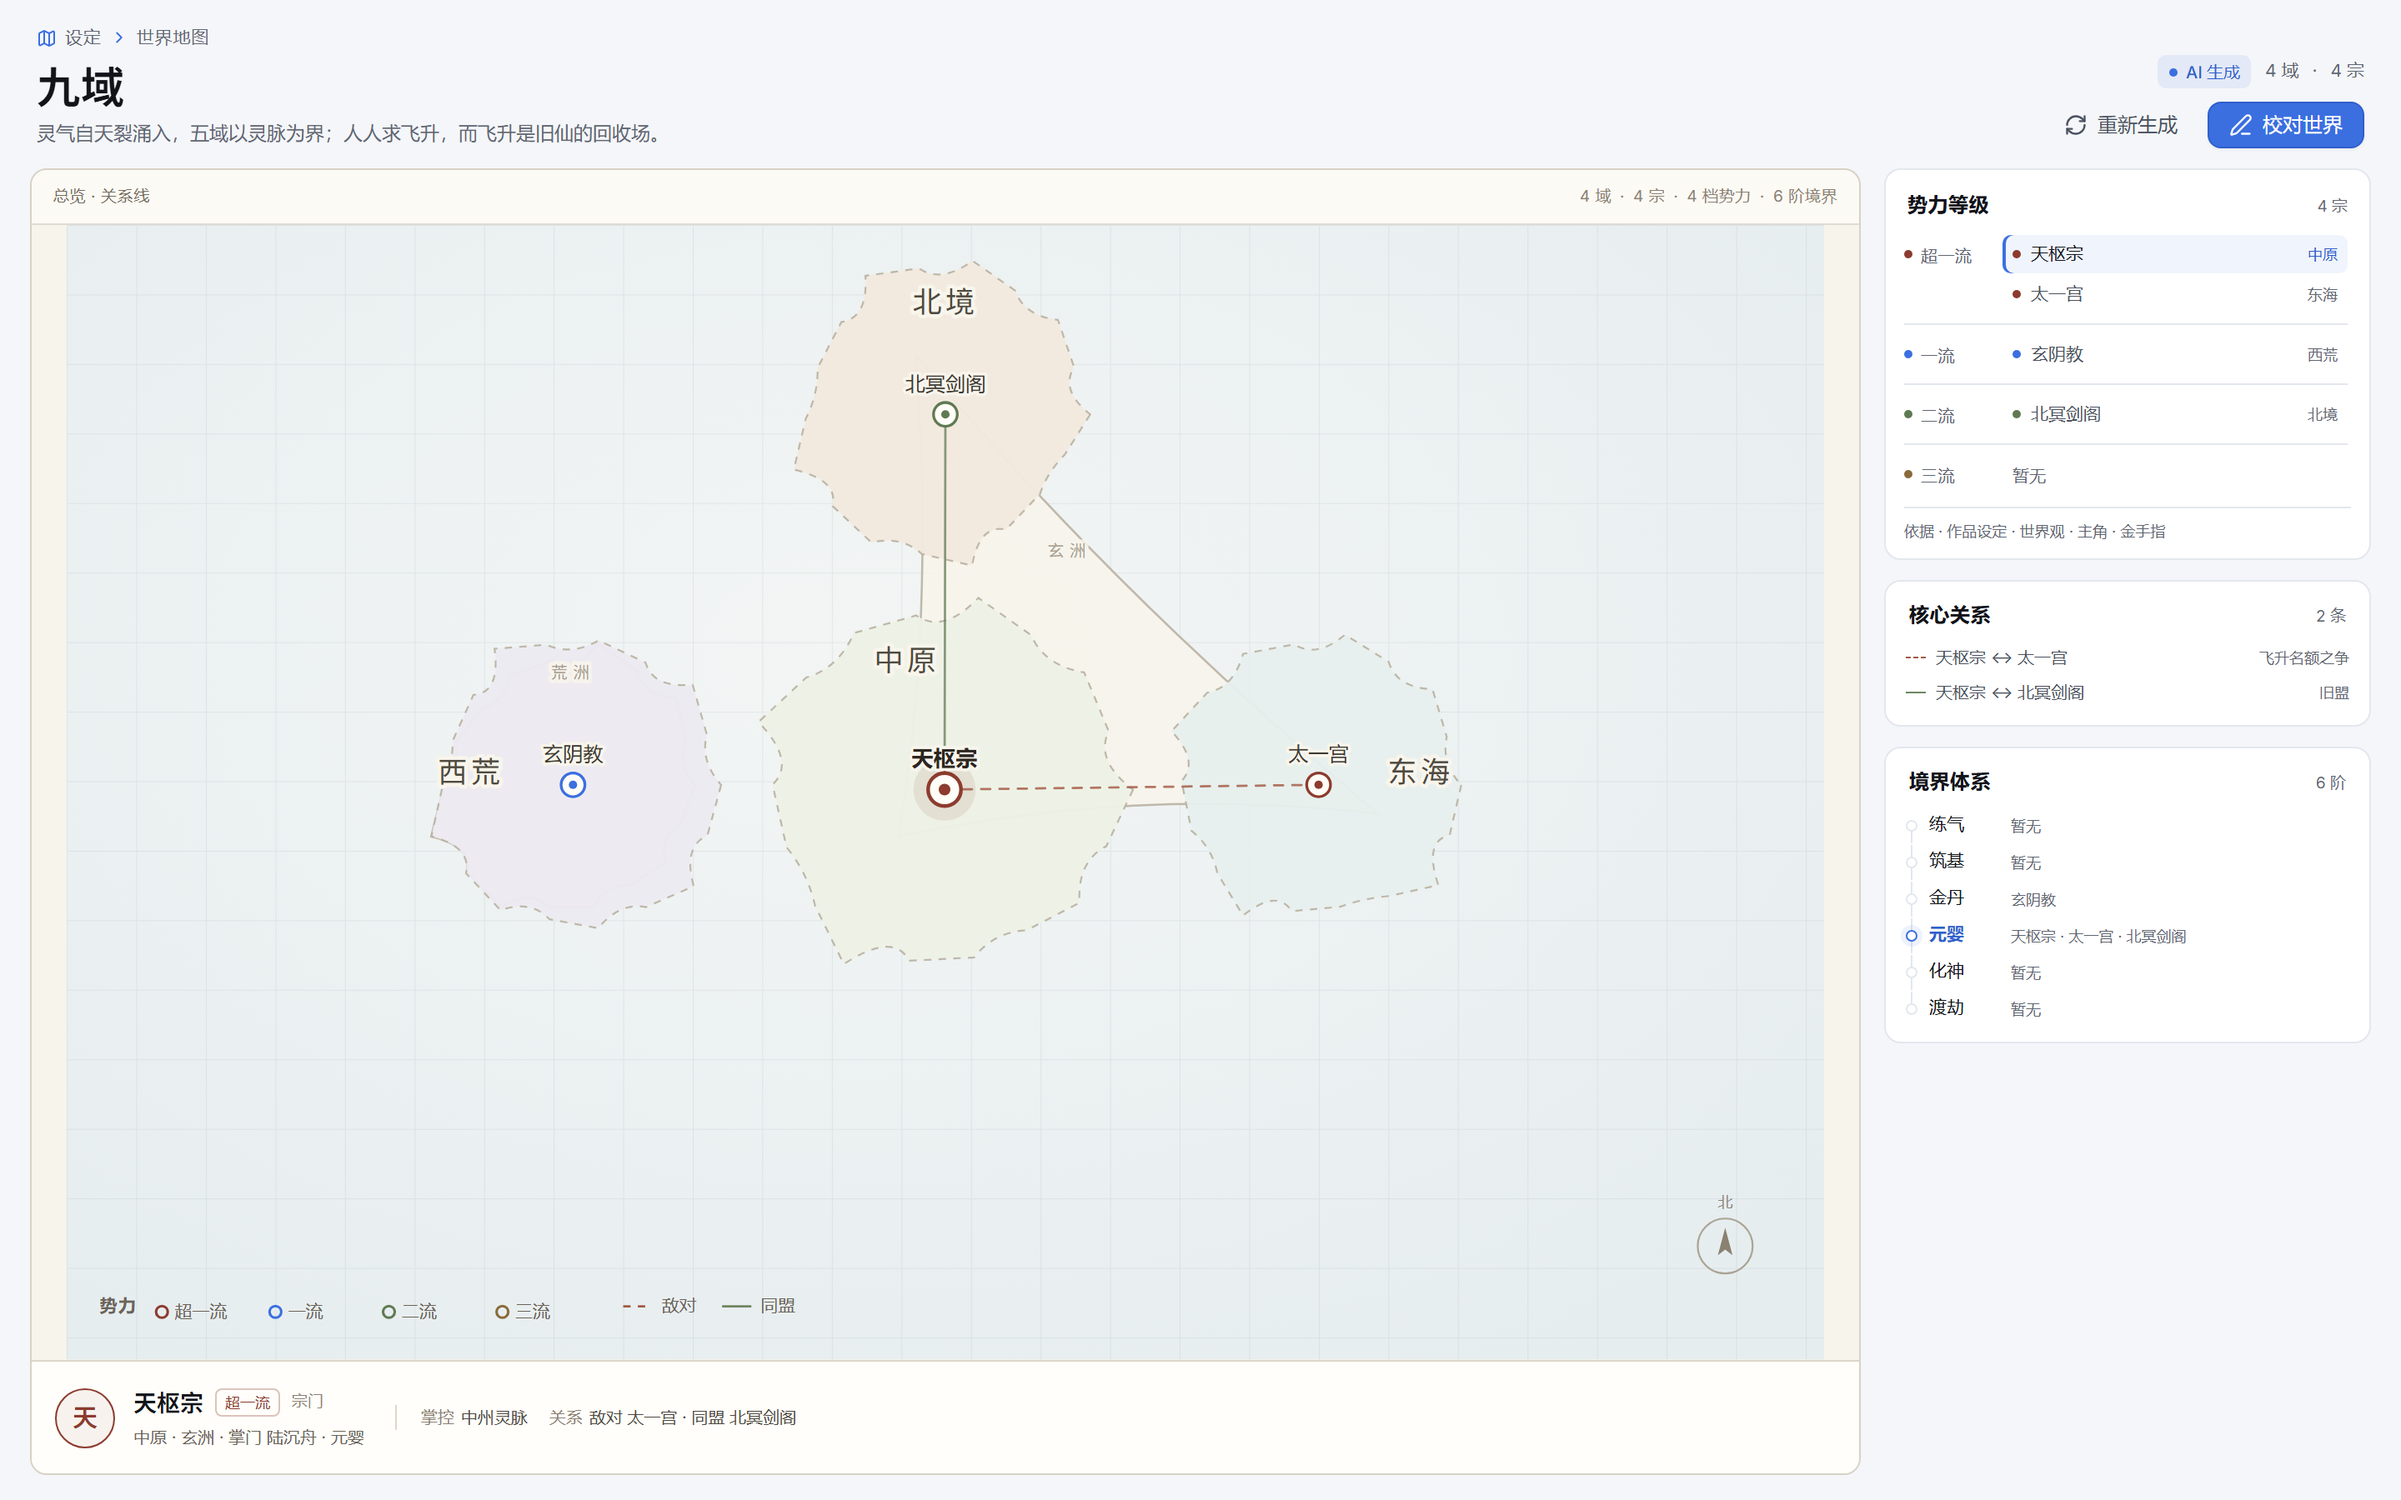
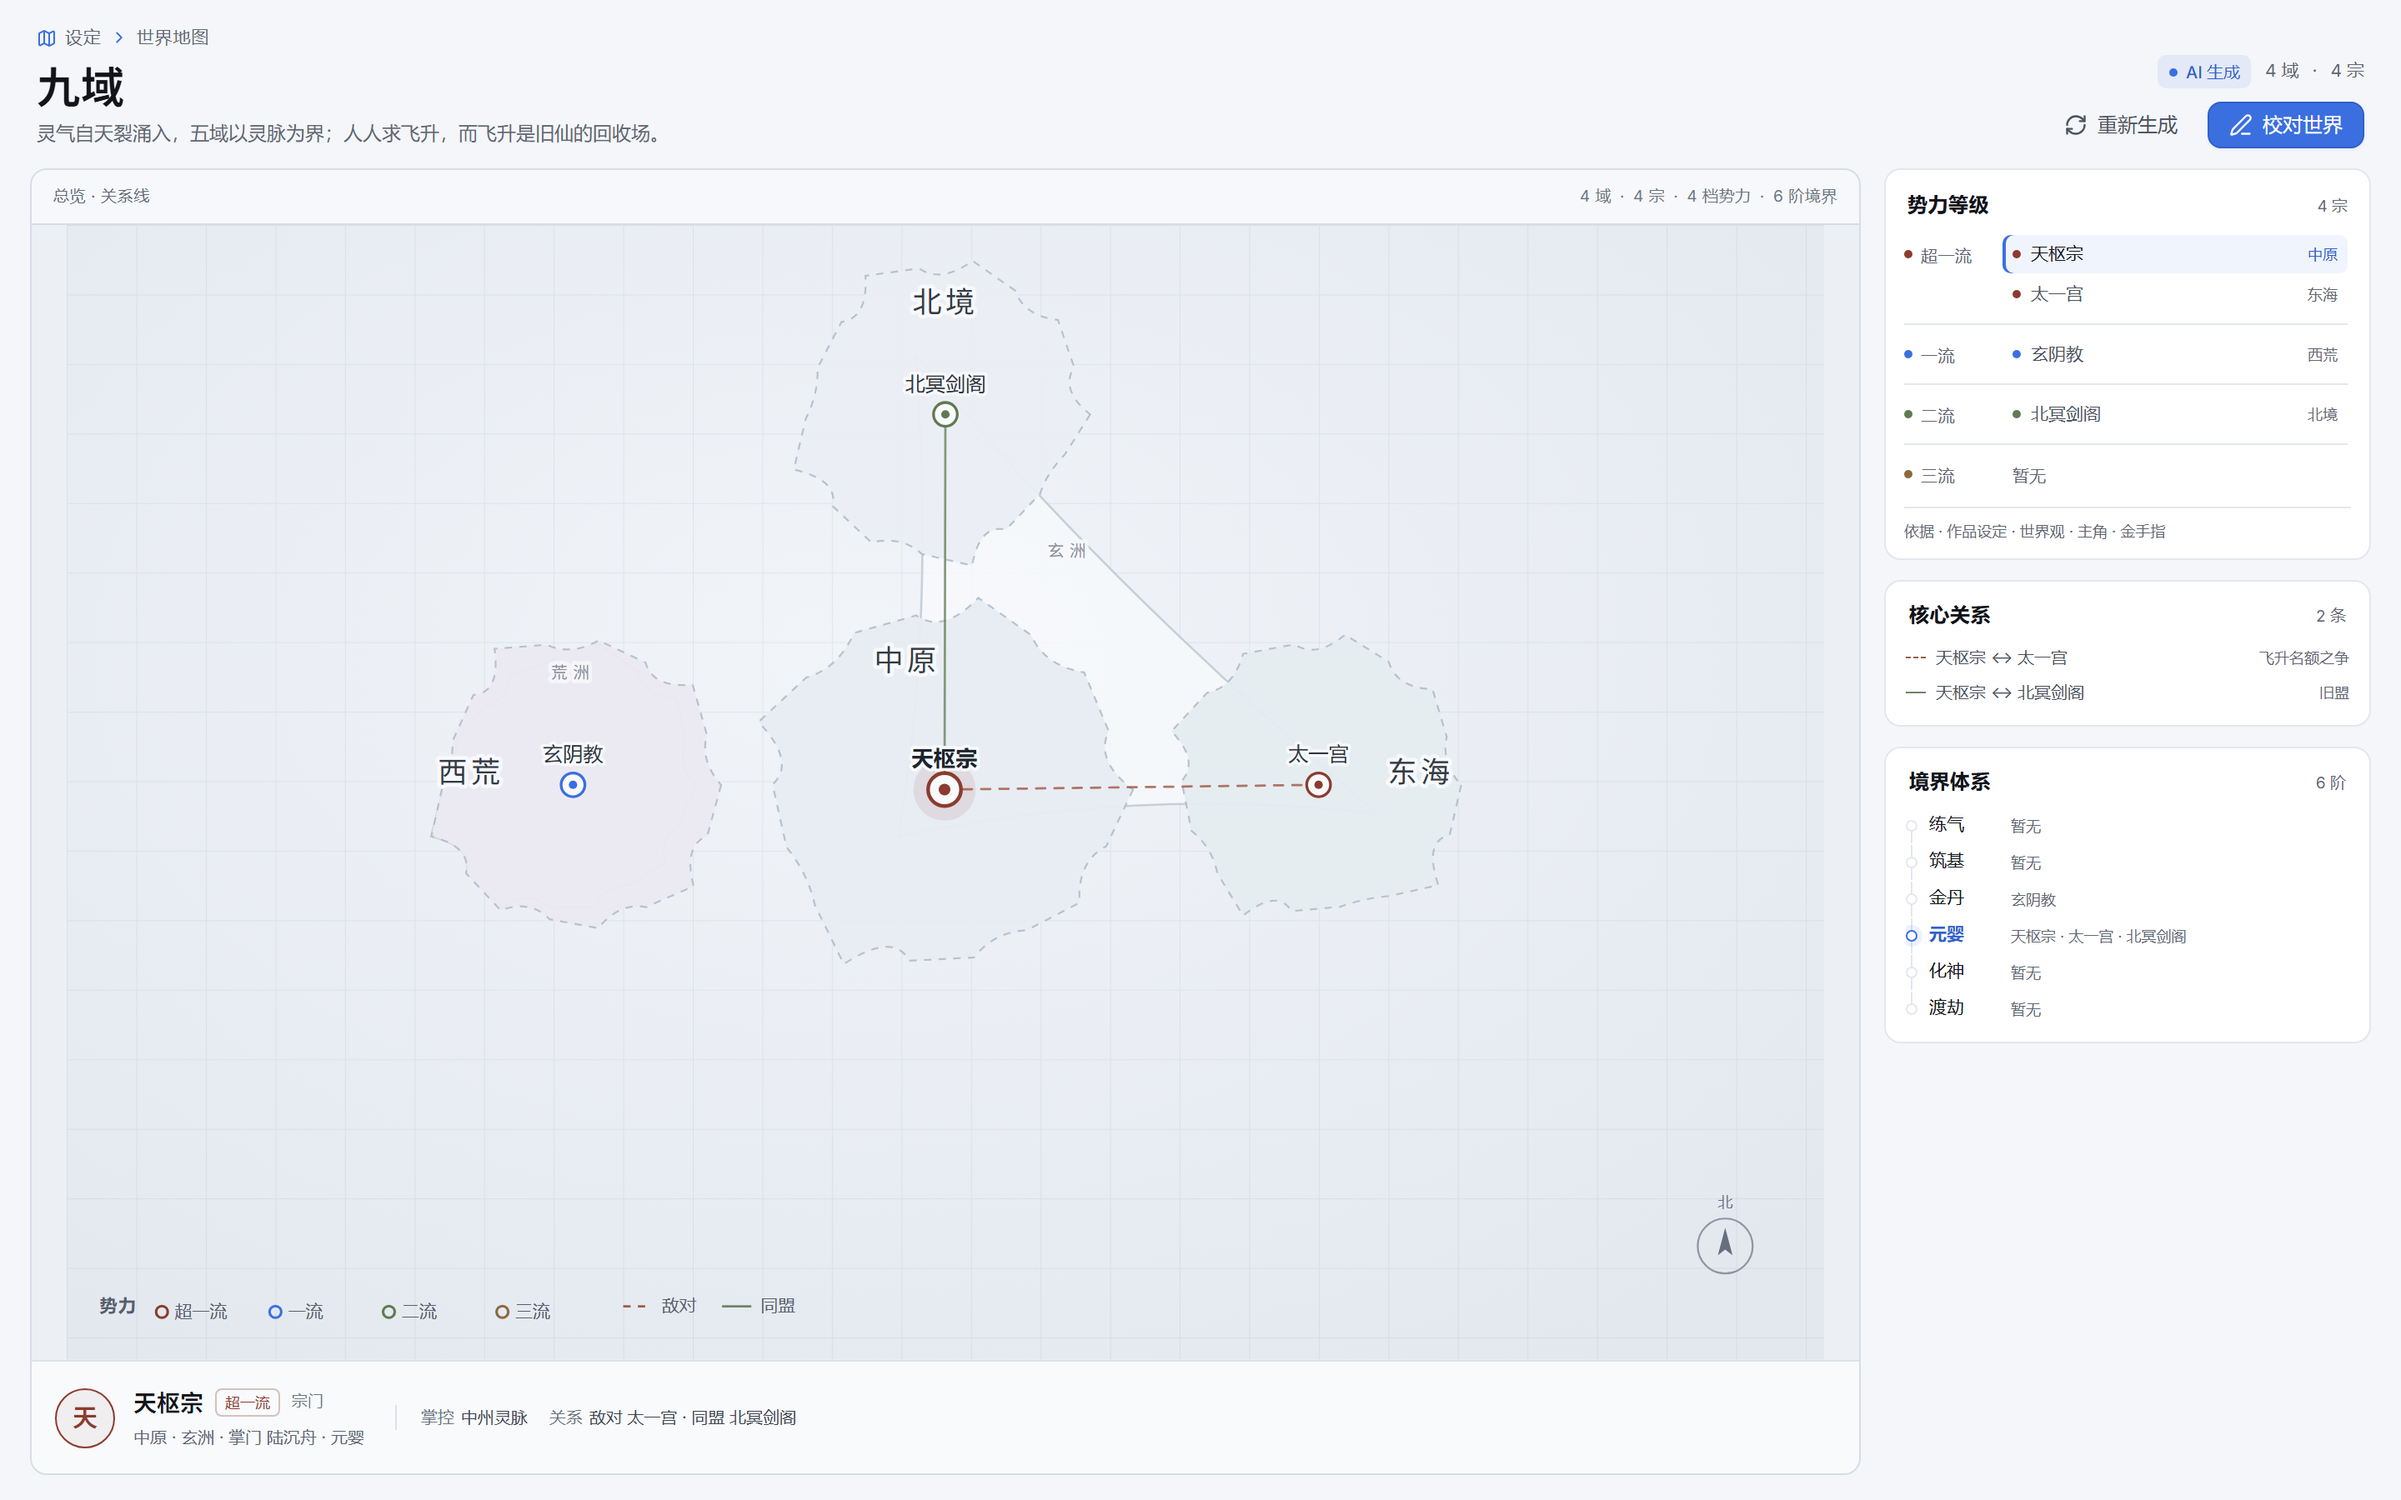
style(world-map): use a neutral gray atlas background
Replace the paper-cream map sheet with a cool gray palette. Keep the tinted region fills and semantic tier/relation colors, but remove the warm sea, parchment plate, labels, and empty-state background.

diff --git a/src/index.css b/src/index.css
@@ -3122,8 +3122,8 @@
     display: flex;
     flex-direction: column;
     overflow: hidden;
-    background: #F7F4EC;
-    border: 1px solid #D8D2C5;
+    background: #ECEFF4;
+    border: 1px solid #D7DDE6;
     border-radius: 10px;
   }
 
@@ -3134,11 +3134,11 @@
     align-items: center;
     gap: 8px;
     padding: 0 13px;
-    color: #746C5C;
+    color: #626B78;
     font-size: 9.5px;
     letter-spacing: 0.03em;
-    border-bottom: 1px solid rgba(185, 177, 161, 0.42);
-    background: rgba(255, 253, 247, 0.66);
+    border-bottom: 1px solid rgba(190, 198, 210, 0.55);
+    background: rgba(249, 250, 252, 0.8);
   }
 
   .world-map-plate-meta {
@@ -3146,7 +3146,7 @@
     display: flex;
     align-items: center;
     gap: 5px;
-    color: #8B8171;
+    color: #6C7583;
     font-variant-numeric: tabular-nums;
   }
 
@@ -3174,24 +3174,24 @@
   }
 
   .world-map-continent-label {
-    fill: #9B917D;
+    fill: #77808D;
     font-family: var(--font-writing);
     font-size: 9px;
     letter-spacing: 3px;
     paint-order: stroke;
-    stroke: #F8F5EC;
+    stroke: #F7F9FC;
     stroke-width: 4px;
     stroke-linejoin: round;
     opacity: 0.86;
   }
 
   .world-map-region-label {
-    fill: #4F4A40;
+    fill: #343B46;
     font-family: var(--font-writing);
     font-size: 16px;
     letter-spacing: 2px;
     paint-order: stroke;
-    stroke: #F8F5EC;
+    stroke: #F7F9FC;
     stroke-width: 4px;
     stroke-linejoin: round;
     pointer-events: none;
@@ -3201,32 +3201,32 @@
   .world-map-faction:focus-visible circle { stroke-width: 2.5; }
 
   .world-map-faction-label {
-    fill: #3F3B32;
+    fill: #2F3742;
     font-family: var(--font-sans);
     font-size: 11px;
     font-weight: 500;
     paint-order: stroke;
-    stroke: #F8F5EC;
+    stroke: #F7F9FC;
     stroke-width: 3px;
     stroke-linejoin: round;
     pointer-events: none;
   }
 
   .world-map-faction-label.selected {
-    fill: #2B2620;
+    fill: #1D242D;
     font-size: 12px;
     font-weight: 600;
   }
 
   .world-map-compass-label {
-    fill: #8B8171;
+    fill: #66707D;
     font-size: 8px;
     text-anchor: middle;
   }
 
   .world-map-legend-label,
   .world-map-legend-value {
-    fill: #6B6458;
+    fill: #56606D;
     font-family: var(--font-sans);
     font-size: 9.5px;
   }
@@ -3240,14 +3240,14 @@
     align-items: center;
     gap: 11px;
     padding: 8px 14px;
-    border-top: 1px solid #DCD6C9;
-    background: rgba(255, 254, 250, 0.96);
+    border-top: 1px solid #DCE2EA;
+    background: rgba(248, 250, 252, 0.96);
   }
 
   .world-map-detail-empty {
     justify-content: center;
     min-height: 54px;
-    color: #8B8171;
+    color: #6C7583;
     font-size: 10.5px;
   }
 
@@ -3294,14 +3294,14 @@
     font-weight: 500;
   }
 
-  .world-map-kind { flex: none; color: #8B8171; font-size: 9.5px; }
+  .world-map-kind { flex: none; color: #6C7583; font-size: 9.5px; }
 
   .world-map-detail-main p {
     margin: 3px 0 0;
     overflow: hidden;
     text-overflow: ellipsis;
     white-space: nowrap;
-    color: #6B6458;
+    color: #5D6674;
     font-size: 10px;
   }
 
@@ -3313,15 +3313,15 @@
     min-width: 0;
     margin-left: 8px;
     padding-left: 14px;
-    border-left: 1px solid #DED8CB;
-    color: #4E4A42;
+    border-left: 1px solid #DDE2E9;
+    color: #3E4652;
     font-size: 10px;
     line-height: 1.55;
   }
 
   .world-map-detail-facts b {
     margin-right: 4px;
-    color: #8B8171;
+    color: #6C7583;
     font-weight: 400;
   }
 
@@ -3556,11 +3556,11 @@
     margin: 0 18px 15px;
     padding: 28px 32px;
     overflow: hidden;
-    border: 1px solid #D8D2C5;
+    border: 1px solid #D7DDE6;
     border-radius: 10px;
     background:
-      radial-gradient(120% 90% at 32% 24%, rgba(255, 253, 246, 0.94), transparent 62%),
-      linear-gradient(180deg, #F7F4EC 0%, #F2EEE4 100%);
+      radial-gradient(120% 90% at 32% 24%, rgba(250, 251, 253, 0.96), transparent 62%),
+      linear-gradient(180deg, #EDF0F5 0%, #E5EAF1 100%);
   }
 
   .world-map-empty-wrap::before {
@@ -3588,9 +3588,9 @@
   }
 
   .world-map-empty-art svg { width: 100%; height: auto; display: block; }
-  .world-map-empty-art path { fill: #F3EFE3; stroke: #C7BEAC; stroke-width: 1.2; }
+  .world-map-empty-art path { fill: #E9EDF3; stroke: #C1C9D4; stroke-width: 1.2; }
   .world-map-empty-art path.dash { fill: none; stroke: #A45A45; stroke-width: 1; stroke-dasharray: 4 4; opacity: 0.55; }
-  .world-map-empty-art circle { fill: #FBFAF5; stroke: #8C3B2E; stroke-width: 2; }
+  .world-map-empty-art circle { fill: #F9FAFC; stroke: #8C3B2E; stroke-width: 2; }
 
   .world-map-empty-copy h2 {
     margin: 0;

diff --git a/src/components/editor/world-map/WorldMapCanvas.tsx b/src/components/editor/world-map/WorldMapCanvas.tsx
@@ -44,8 +44,8 @@ export default function WorldMapCanvas({
           <path d="M38 0H0V38" fill="none" stroke="rgba(96, 110, 126, 0.10)" strokeWidth="1" />
         </pattern>
         <radialGradient id="world-map-sea" cx="45%" cy="38%" r="75%">
-          <stop offset="0%" stopColor="#F2F5F4" />
-          <stop offset="100%" stopColor="#E6EDEF" />
+          <stop offset="0%" stopColor="#F1F4F8" />
+          <stop offset="100%" stopColor="#E3E8EF" />
         </radialGradient>
       </defs>
 
@@ -54,7 +54,7 @@ export default function WorldMapCanvas({
 
       {layout.continents.map(continent => (
         <g key={continent.name} className="world-map-continent">
-          <path d={continent.path} fill="#F8F5EC" stroke="#B9B1A1" strokeWidth={1.15} opacity={0.88} />
+          <path d={continent.path} fill="#F7F9FC" stroke="#C2CBD6" strokeWidth={1.15} opacity={0.88} />
         </g>
       ))}
 
@@ -63,7 +63,7 @@ export default function WorldMapCanvas({
           <path
             d={shape.path}
             fill={shape.fill}
-            stroke="#BDB5A5"
+            stroke="#B6C0CC"
             strokeWidth={1}
             strokeDasharray="4 4"
             opacity={0.96}
@@ -131,7 +131,7 @@ export default function WorldMapCanvas({
             }}
           >
             {selected && <circle r={17} fill={color} opacity={0.1} />}
-            <circle r={selected ? 9 : 6.5} fill="#FFFDF7" stroke={color} strokeWidth={selected ? 2 : 1.5} />
+            <circle r={selected ? 9 : 6.5} fill="#F9FAFC" stroke={color} strokeWidth={selected ? 2 : 1.5} />
             <circle r={selected ? 3.2 : 2.3} fill={color} />
             {showLabel ? (
               <text
@@ -148,8 +148,8 @@ export default function WorldMapCanvas({
       })}
 
       <g transform={`translate(${WORLD_MAP_VIEWBOX.width - 54} ${WORLD_MAP_VIEWBOX.height - 62})`} className="world-map-compass">
-        <circle r={15} fill="none" stroke="#9B917D" strokeWidth={1} opacity={0.8} />
-        <path d="M0-10 4 5 0 2-4 5Z" fill="#8B8171" stroke="none" />
+        <circle r={15} fill="none" stroke="#77808D" strokeWidth={1} opacity={0.8} />
+        <path d="M0-10 4 5 0 2-4 5Z" fill="#66707D" stroke="none" />
         <text x={0} y={-21} textAnchor="middle" className="world-map-compass-label">{text('北', 'N')}</text>
       </g>
 

diff --git a/src/components/editor/world-map/world-map-layout.ts b/src/components/editor/world-map/world-map-layout.ts
@@ -26,7 +26,7 @@ const DIRECTION_ANGLES: Record<WorldDirection, number | null> = {
   northwest: (-3 * Math.PI) / 4,
 }
 
-const REGION_FILLS = ['#EEF2E6', '#F3EADF', '#E7F0EE', '#EDEBF2', '#F1EEE3', '#E8EEF3'] as const
+const REGION_FILLS = ['#E8EDF3', '#EBEFF5', '#E5EDF1', '#EBEAF3', '#EDF0F3', '#E6EDF5'] as const
 
 export interface MapPoint {
   x: number

diff --git a/docs/ui-redesign/world-map/README.md b/docs/ui-redesign/world-map/README.md
@@ -48,7 +48,7 @@
 
 - 入口在侧栏「设定」组：作品设定 → 故事架构 → 世界地图 → 伏笔与叙事线索。
 - 消费作品设定里的世界观、核心大纲、主角和金手指；不复制这些文本。
-- 视觉沿用纸色、墨线、衬线标题和现有主题令牌，不另造一套 fantasy UI。
+- 视觉沿用冷灰图版、墨线、衬线标题和现有主题令牌，不另造一套 fantasy UI。
 
 ## 实现要点
 
